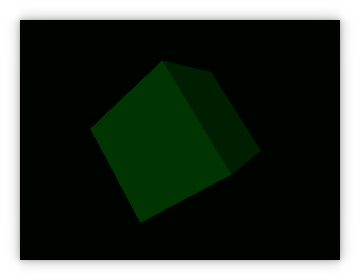
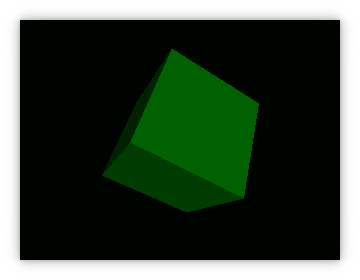
Increase color of cube

Changed region(s): [[0.2444, 0.1714, 0.7333, 0.8]]

diff --git a/src/flatshadedcube.cpp b/src/flatshadedcube.cpp
@@ -23,13 +23,13 @@ void DEMO_Initialize(void)
 {
 	float p = 1.8;
 	float d = 4, r = d;
-	for (int i = 0; i < 32; i++) {
+	for (int i = 0; i < 64; i++) {
 		RETRO_SetColor(i, 0, r, 0);
 		r = r + p;
 	}
 
 	Model3D *model = RETRO_Load3DModel("assets/cube.obj");
-	model->cintensity = 32;
+	model->cintensity = 64;
 
 	RETRO_InitializeLightSource(0, 0, -1);
 }

diff --git a/src/glenzshadedcube.cpp b/src/glenzshadedcube.cpp
@@ -35,7 +35,7 @@ void DEMO_Initialize(void)
 		model->face[i].c = c[i];
 	}
 	model->c = 0;
-	model->cintensity = 32;
+	model->cintensity = 64;
 
 	RETRO_InitializeLightSource(0, 0, -1);
 }
